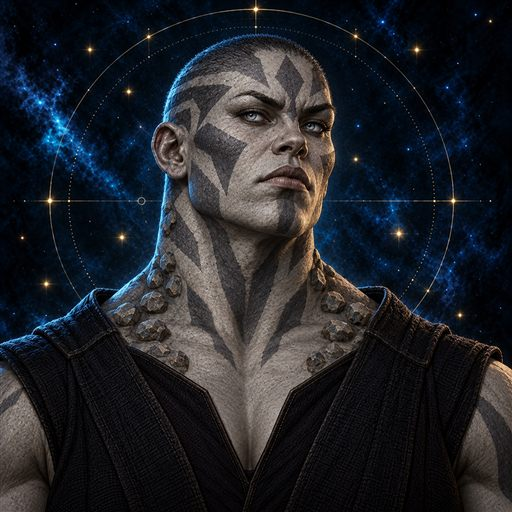
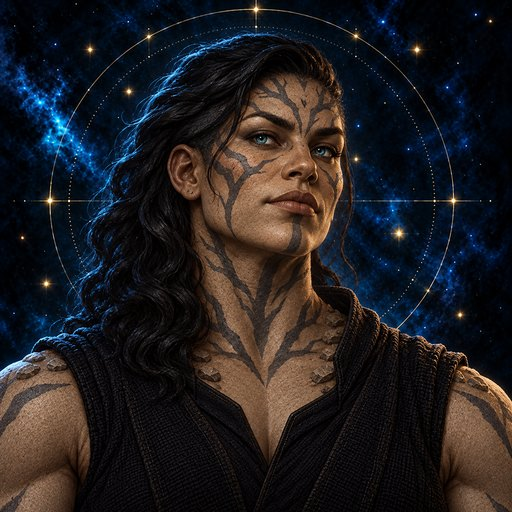
art: diversify goliath portraits

diff --git a/src/ui/goliathRace.ts b/src/ui/goliathRace.ts
@@ -135,7 +135,7 @@ export const GOLIATH_TOPIC: RuleTopic = {
     { type: "heading", level: 2, text: "Камень и рост" },
     {
       type: "paragraph",
-      text: "Голиафы на голову выше любого человека и почти вдвое тяжелее: ростом семь-восемь футов, широкие в кости, с такими плечами, что готовой одежды на них не найти. Кожа у них серая, от светлого пепла до тёмного сланца, и по ней разбросаны пятна темнее основного тона. Рисунок пятен у каждого свой и не повторяется даже у родни. Волос на теле почти нет, на голове они растут жёстким тёмным ёжиком, и мужчины и женщины стригут их коротко. Глаза у голиафов светлые: голубые, серые, изредка синие, как горный лёд.",
+      text: "Голиафы на голову выше любого человека и почти вдвое тяжелее: ростом семь-восемь футов, широкие в кости, с такими плечами, что готовой одежды на них не найти. Кожа у них напоминает камень: бывает серой, бурой, сланцевой или с синевой; по ней лежат более тёмные симметричные пятна, а на висках, шее и плечах выступают твёрдые литодермы. Их рисунок у каждого свой и не повторяется даже у родни. Волосы у голиафов жёсткие, но длина, цвет и причёска зависят от человека: один коротко стрижётся, другой заплетает длинные косы; встречаются чёрные, бурые, рыжие и пепельные волосы. Мужчины могут носить бороду или щетину, хотя многие бреются. Глаза бывают серыми, синими, зелёными, янтарными или тёмными.",
     },
     {
       type: "paragraph",
